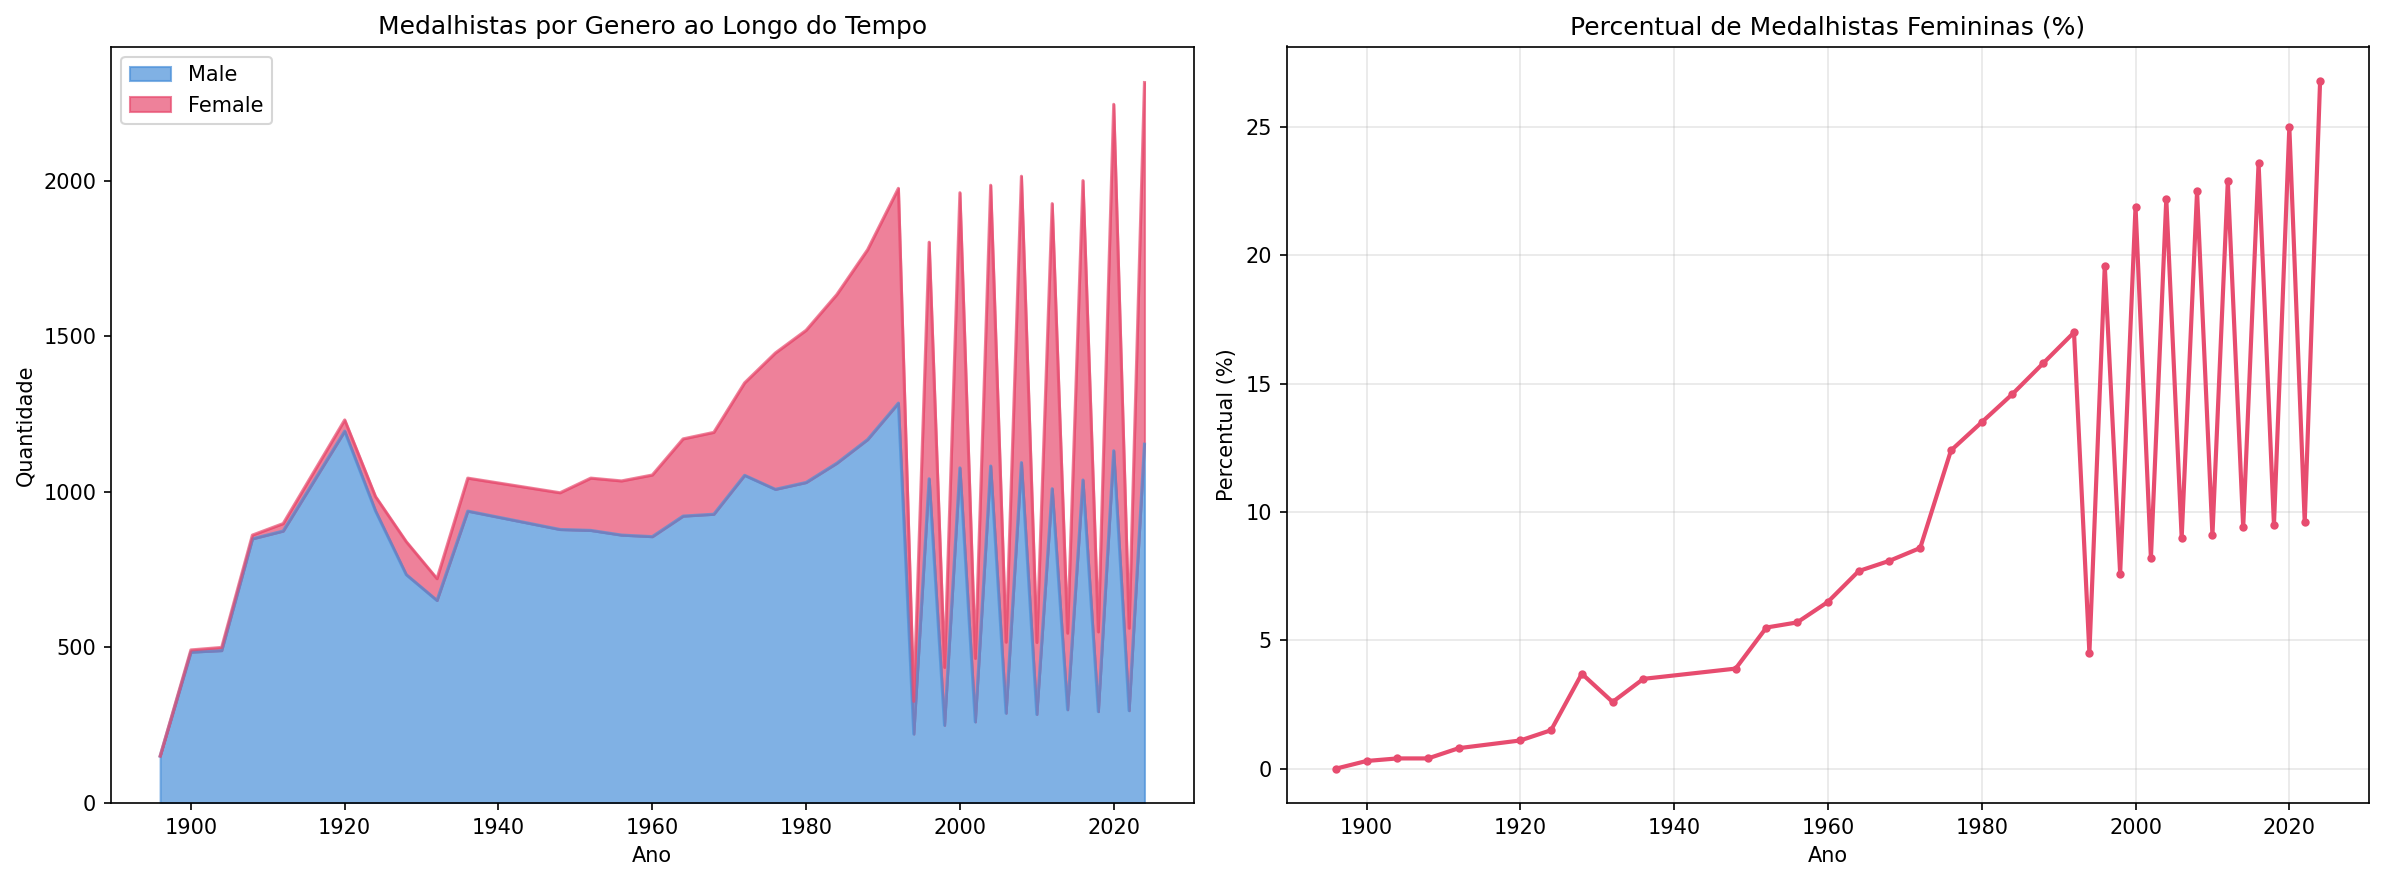
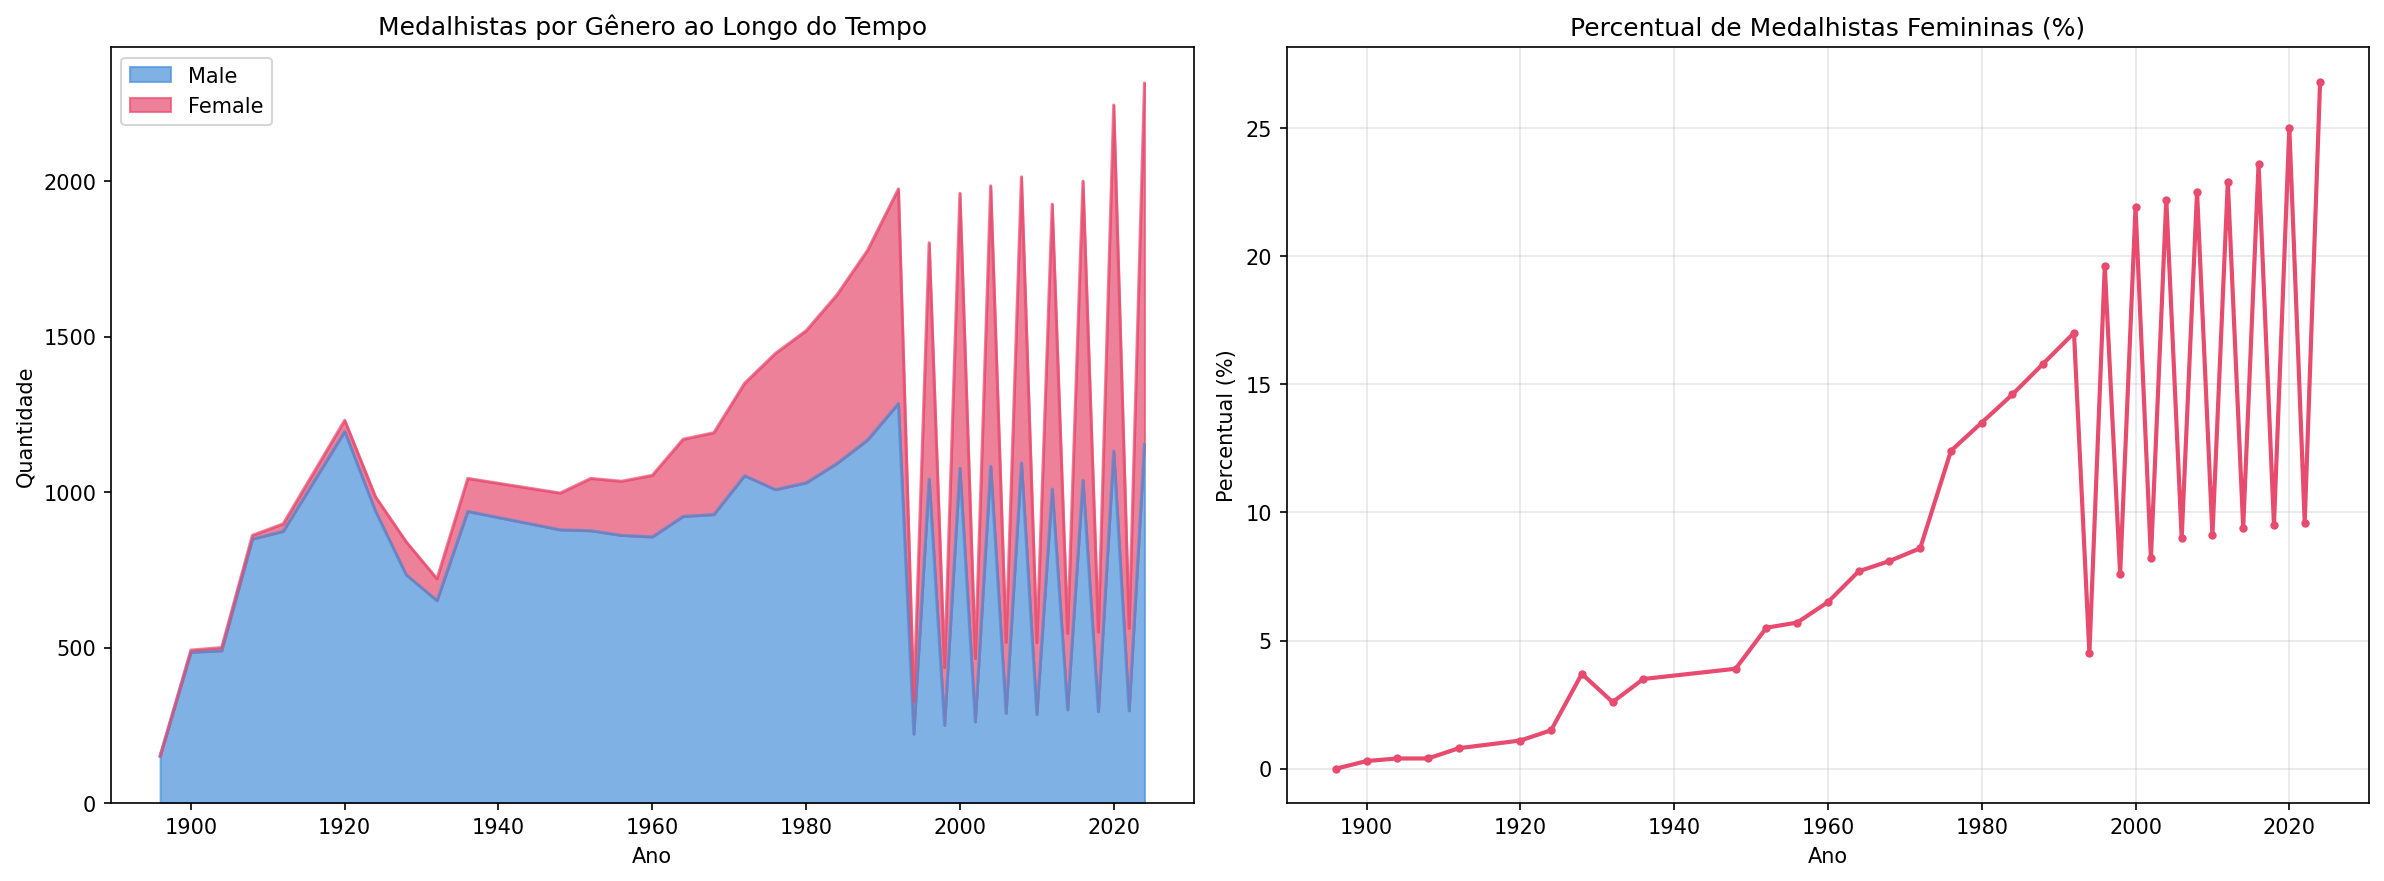
corrige acentuação em todos os textos (notebooks, READMEs, metadados)
https://claude.ai/code/session_01RQAfR9xN6NMNzsiCuUNGWC

diff --git a/olympics-datalake/README.md b/olympics-datalake/README.md
@@ -1,33 +1,33 @@
-# Data Lake - Olimpiadas
+# Data Lake - Olimpíadas
 
-Data Lake local com dados olimpicos historicos (1896-2022) e Paris 2024, organizado em camadas seguindo a arquitetura medallion.
+Data Lake local com dados olímpicos históricos (1896-2022) e Paris 2024, organizado em camadas seguindo a arquitetura medallion.
 
 ## Fontes de Dados
 
-- **Dados Historicos**: World Olympedia - resultados de atletas em todas as edicoes dos Jogos Olimpicos (Kaggle)
-- **Paris 2024**: Dados oficiais dos medalhistas das Olimpiadas de Paris 2024 (Kaggle)
+- **Dados Históricos**: World Olympedia - resultados de atletas em todas as edições dos Jogos Olímpicos (Kaggle)
+- **Paris 2024**: Dados oficiais dos medalhistas das Olimpíadas de Paris 2024 (Kaggle)
 
 ## Estrutura
 
 ### raw/
 Dados brutos originais em CSV com seus metadados em JSON.
-- `olympics_historico.csv` - todos os resultados olimpicos historicos
+- `olympics_historico.csv` - todos os resultados olímpicos históricos
 - `olympics_paris2024.csv` - medalhistas de Paris 2024
 
 ### bronze/
 Dados convertidos para Parquet e datasets integrados entre as fontes.
-- `olympics_historico.parquet` - dados historicos em Parquet
+- `olympics_historico.parquet` - dados históricos em Parquet
 - `olympics_paris2024.parquet` - dados Paris 2024 em Parquet
-- `medalhas_1986_2024` - unificacao de todos os medalhistas (historico + Paris 2024)
-- `modalidades_1986_2024` - contagem de medalhas por esporte e edicao
-- `atletas_por_sexo` - medalhistas classificados por genero
+- `medalhas_1986_2024` - unificação de todos os medalhistas (histórico + Paris 2024)
+- `modalidades_1986_2024` - contagem de medalhas por esporte e edição
+- `atletas_por_sexo` - medalhistas classificados por gênero
 
 ### gold/
-Analises finais com visualizacoes, cada uma com seu proprio notebook.
-- `analise_medalhas/` - quadro de medalhas por pais
+Análises finais com visualizações, cada uma com seu próprio notebook.
+- `analise_medalhas/` - quadro de medalhas por país
 - `analise_modalidades/` - ranking de esportes por medalhas
-- `analise_genero/` - evolucao da participacao feminina ao longo do tempo
+- `analise_genero/` - evolução da participação feminina ao longo do tempo
 
 ## Metadados
 
-Cada dataset possui um arquivo JSON de metadados seguindo o schema definido em `metadata_schema.json`. Os metadados incluem: nome, fonte, descricao, colunas, quantidade de linhas, data de coleta e observacoes.
+Cada dataset possui um arquivo JSON de metadados seguindo o schema definido em `metadata_schema.json`. Os metadados incluem: nome, fonte, descrição, colunas, quantidade de linhas, data de coleta e observações.

diff --git a/README.md b/README.md
@@ -1,13 +1,13 @@
-# Data Lake - Olimpiadas
+# Data Lake - Olimpíadas
 
-Projeto de Data Lake local com dados dos Jogos Olimpicos, desde 1896 ate Paris 2024. Segue a arquitetura medallion com tres camadas: raw, bronze e gold.
+Projeto de Data Lake local com dados dos Jogos Olímpicos, desde 1896 até Paris 2024. Segue a arquitetura medallion com três camadas: raw, bronze e gold.
 
 ## Como usar
 
 1. O notebook `notebook.ipynb` na raiz gera as camadas raw e bronze
-2. Cada subpasta em `olympics-datalake/gold/` tem seu proprio notebook com a analise especifica
+2. Cada subpasta em `olympics-datalake/gold/` tem seu próprio notebook com a análise específica
 
-### Dependencias
+### Dependências
 
 ```
 pip install pandas pyarrow matplotlib
@@ -17,7 +17,7 @@ pip install pandas pyarrow matplotlib
 
 ```
 ├── notebook.ipynb                  # Pipeline principal (raw + bronze)
-├── dados-historicos/               # Dados fonte - olimpiadas historicas
+├── dados-historicos/               # Dados fonte - olimpíadas históricas
 ├── dados-paris-2024/               # Dados fonte - Paris 2024
 └── olympics-datalake/
     ├── README.md
@@ -25,12 +25,12 @@ pip install pandas pyarrow matplotlib
     ├── raw/                        # Dados brutos (CSV + metadados JSON)
     ├── bronze/                     # Parquet + datasets integrados
     └── gold/
-        ├── analise_medalhas/       # Quadro de medalhas por pais
+        ├── analise_medalhas/       # Quadro de medalhas por país
         ├── analise_modalidades/    # Ranking de esportes
-        └── analise_genero/         # Evolucao por genero
+        └── analise_genero/         # Evolução por gênero
 ```
 
 ## Fontes de dados
 
-- World Olympedia (Kaggle) - Resultados olimpicos historicos (1896-2022)
+- World Olympedia (Kaggle) - Resultados olímpicos históricos (1896-2022)
 - Paris 2024 Olympic Games (Kaggle) - Dados oficiais de Paris 2024
